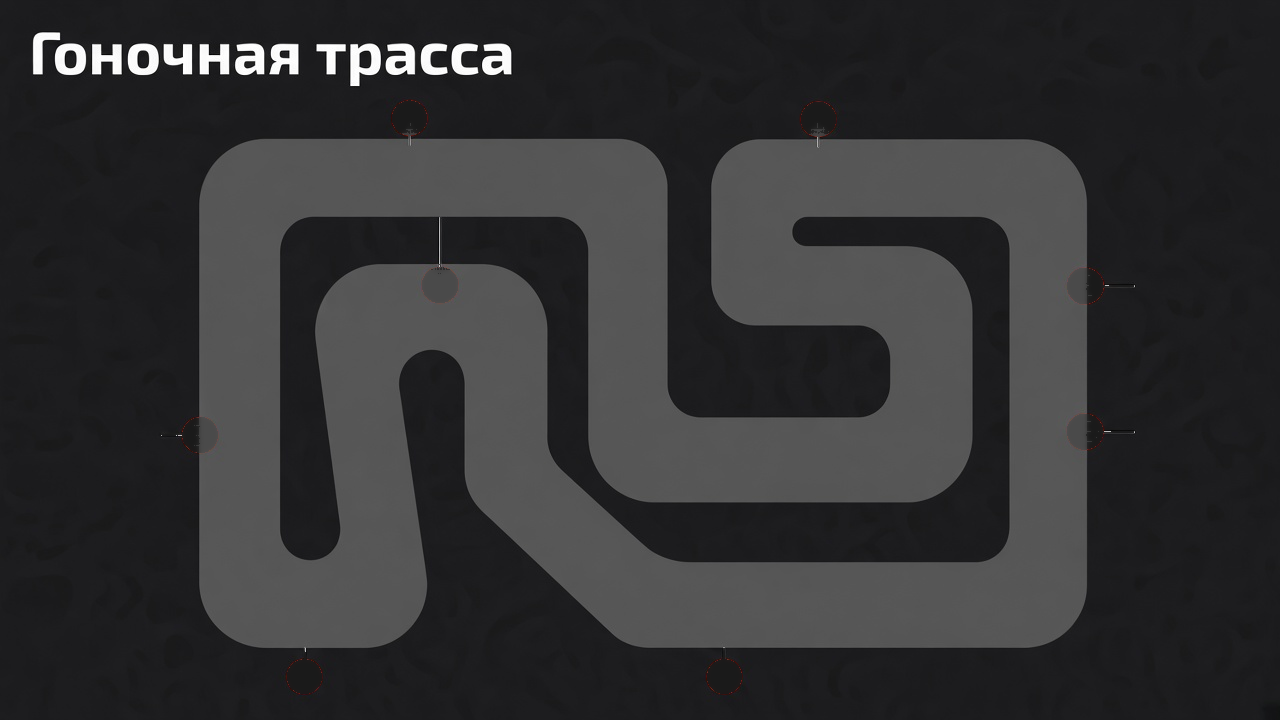
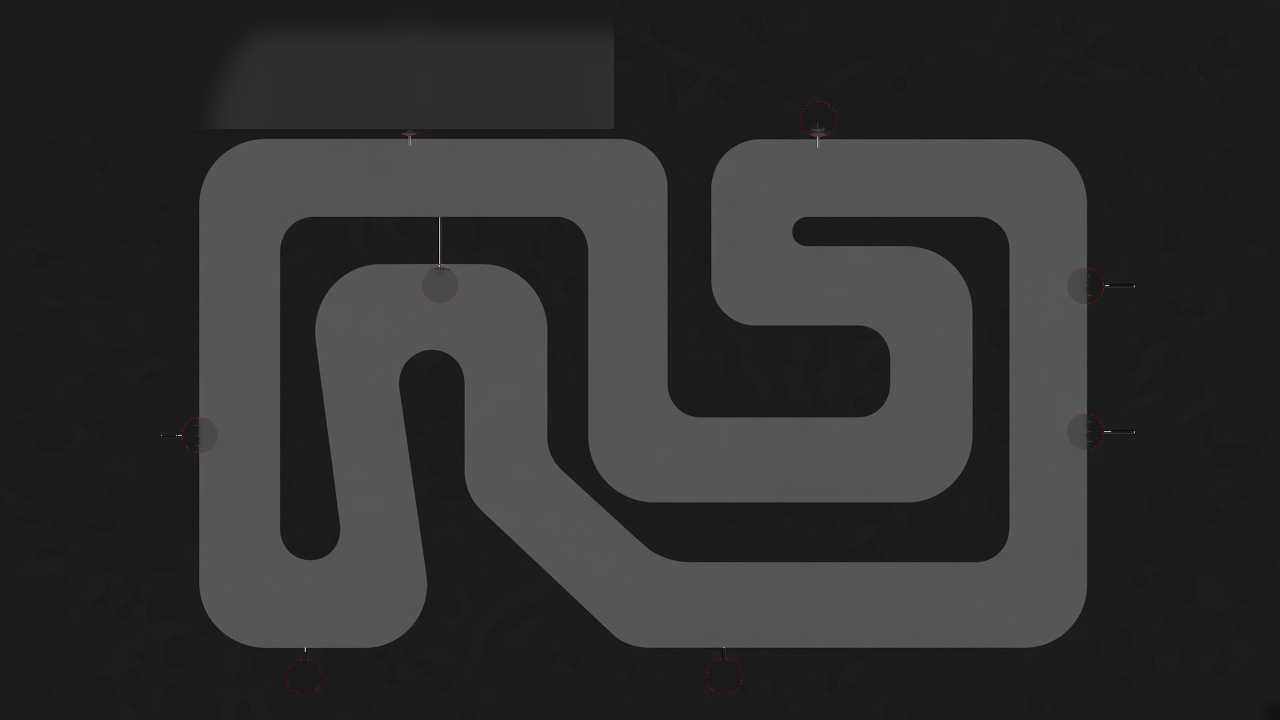
fix(pit-stop): трасса в один экран, без заголовка на арте
Вписываем карту в viewport; фразу «Гоночная трасса» сняли с PNG.

Changed region(s): [[0.0, 0.0306, 0.4062, 0.1222]]

diff --git a/frontend/app/pages/event/pit-stop/index.vue b/frontend/app/pages/event/pit-stop/index.vue
@@ -1,51 +1,53 @@
 <template>
   <div class="ps-hub">
     <div class="ps-hub__stage">
-      <img
-        class="ps-hub__track"
-        src="/events/pit-stop-14/track.png"
-        alt="Гоночная трасса Pit Stop 14"
-        width="1280"
-        height="720"
-        draggable="false"
-      />
+      <div class="ps-hub__map">
+        <img
+          class="ps-hub__track"
+          src="/events/pit-stop-14/track.png"
+          alt=""
+          width="1280"
+          height="720"
+          draggable="false"
+        />
 
-      <template v-for="item in hub" :key="item.id">
-        <NuxtLink
-          v-if="canOpen(item)"
-          :to="`/event/pit-stop/${item.id}`"
-          class="ps-hub__pin"
-          :class="[`is-${item.status}`, { 'is-current': isCurrent(item) }]"
-          :style="pinStyle(item.id)"
-          :title="shortTitle(item.title)"
-          :aria-label="`${shortTitle(item.title)} — ${statusLabel(item.status)}`"
-        >
-          <span class="ps-hub__pin-ring" aria-hidden="true" />
-          <span class="ps-hub__pin-core">{{ item.id }}</span>
-        </NuxtLink>
-        <button
-          v-else
-          type="button"
-          class="ps-hub__pin is-locked"
-          :style="pinStyle(item.id)"
-          disabled
-          :title="item.lockedLabel || 'Закрыто'"
-          :aria-label="`${shortTitle(item.title)} — закрыто`"
-        >
-          <span class="ps-hub__pin-ring" aria-hidden="true" />
-          <span class="ps-hub__pin-core" aria-hidden="true">
-            <svg viewBox="0 0 16 16" width="14" height="14" fill="none">
-              <path
-                d="M4.5 7V5a3.5 3.5 0 1 1 7 0v2"
-                stroke="currentColor"
-                stroke-width="1.6"
-                stroke-linecap="round"
-              />
-              <rect x="3.25" y="7" width="9.5" height="6.75" rx="1.5" stroke="currentColor" stroke-width="1.6" />
-            </svg>
-          </span>
-        </button>
-      </template>
+        <template v-for="item in hub" :key="item.id">
+          <NuxtLink
+            v-if="canOpen(item)"
+            :to="`/event/pit-stop/${item.id}`"
+            class="ps-hub__pin"
+            :class="[`is-${item.status}`, { 'is-current': isCurrent(item) }]"
+            :style="pinStyle(item.id)"
+            :title="shortTitle(item.title)"
+            :aria-label="`${shortTitle(item.title)} — ${statusLabel(item.status)}`"
+          >
+            <span class="ps-hub__pin-ring" aria-hidden="true" />
+            <span class="ps-hub__pin-core">{{ item.id }}</span>
+          </NuxtLink>
+          <button
+            v-else
+            type="button"
+            class="ps-hub__pin is-locked"
+            :style="pinStyle(item.id)"
+            disabled
+            :title="item.lockedLabel || 'Закрыто'"
+            :aria-label="`${shortTitle(item.title)} — закрыто`"
+          >
+            <span class="ps-hub__pin-ring" aria-hidden="true" />
+            <span class="ps-hub__pin-core" aria-hidden="true">
+              <svg viewBox="0 0 16 16" width="14" height="14" fill="none">
+                <path
+                  d="M4.5 7V5a3.5 3.5 0 1 1 7 0v2"
+                  stroke="currentColor"
+                  stroke-width="1.6"
+                  stroke-linecap="round"
+                />
+                <rect x="3.25" y="7" width="9.5" height="6.75" rx="1.5" stroke="currentColor" stroke-width="1.6" />
+              </svg>
+            </span>
+          </button>
+        </template>
+      </div>
     </div>
 
     <aside class="ps-hub__dock">
@@ -190,7 +192,8 @@ onMounted(load);
   --ps-violet: #7451f4;
   position: relative;
   width: 100%;
-  min-height: calc(100dvh - 64px);
+  height: 100%;
+  min-height: 0;
   margin: 0;
   padding: 0;
   background: var(--ps-bg);
@@ -199,20 +202,35 @@ onMounted(load);
   touch-action: manipulation;
   display: flex;
   flex-direction: column;
+  overflow: hidden;
 }
 
 .ps-hub__stage {
-  position: relative;
   flex: 1 1 auto;
-  width: 100%;
   min-height: 0;
+  width: 100%;
+  padding: 8px 12px 4px;
+  display: grid;
+  place-items: center;
+  container-type: size;
+}
+
+.ps-hub__map {
+  position: relative;
+  /* вписать 16:9 в доступный бокс stage без скролла */
+  width: min(100cqw, calc(100cqh * 1280 / 720));
+  height: min(100cqh, calc(100cqw * 720 / 1280));
+  max-width: 100%;
+  max-height: 100%;
   line-height: 0;
 }
 
 .ps-hub__track {
   display: block;
   width: 100%;
-  height: auto;
+  height: 100%;
+  object-fit: contain;
+  object-position: center;
   user-select: none;
   pointer-events: none;
 }
@@ -220,8 +238,8 @@ onMounted(load);
 .ps-hub__pin {
   position: absolute;
   z-index: 2;
-  width: 52px;
-  height: 52px;
+  width: clamp(36px, 5.5cqmin, 52px);
+  height: clamp(36px, 5.5cqmin, 52px);
   margin: 0;
   padding: 0;
   border: 0;
@@ -310,8 +328,8 @@ onMounted(load);
   display: flex;
   flex-wrap: wrap;
   align-items: flex-end;
-  gap: 16px 24px;
-  padding: 14px 20px 20px;
+  gap: 10px 20px;
+  padding: 8px 16px 12px;
   background: linear-gradient(180deg, transparent, rgba(0, 0, 0, 0.55) 28%, #111 100%);
   border-top: 1px solid rgba(255, 255, 255, 0.08);
 }
@@ -331,16 +349,16 @@ onMounted(load);
 }
 
 .ps-hub__title {
-  margin: 0 0 6px;
-  font-size: 1.35rem;
+  margin: 0 0 4px;
+  font-size: 1.15rem;
   font-weight: 800;
   letter-spacing: -0.02em;
 }
 
 .ps-hub__lead {
-  margin: 0 0 8px;
-  font-size: 0.88rem;
-  line-height: 1.4;
+  margin: 0 0 4px;
+  font-size: 0.8rem;
+  line-height: 1.35;
   color: rgba(255, 255, 255, 0.72);
   max-width: 40em;
 }

diff --git a/frontend/app/assets/main.css b/frontend/app/assets/main.css
@@ -726,23 +726,101 @@ a {
   overflow: hidden;
 }
 
-/* Pit Stop: на всю ширину контента, без узкой колонки */
-.shell-main:has(.ps-hub) .content,
+/* Pit Stop: на всю ширину + один экран без скролла */
+.app-viewport:has(.ps-hub) {
+  height: 100dvh;
+  max-height: 100dvh;
+  overflow: hidden;
+}
+
+.app-viewport:has(.ps-hub) > .app-shell {
+  flex: 1 1 0;
+  min-height: 0;
+  height: auto;
+  max-height: 100%;
+  overflow: hidden;
+}
+
+.app-viewport:has(.ps-hub) > .app-site-footer {
+  display: none;
+}
+
+.app-shell:has(.ps-hub) {
+  min-height: 0;
+  height: 100%;
+  max-height: 100%;
+  overflow: hidden;
+  align-items: stretch;
+}
+
+.app-shell:has(.ps-hub) > .shell-main {
+  min-height: 0;
+  max-height: 100%;
+  overflow: hidden;
+}
+
+.shell-main:has(.ps-hub) {
+  grid-template-rows: auto minmax(0, 1fr);
+  min-height: 0;
+  height: 100%;
+  max-height: 100%;
+  overflow: hidden;
+}
+
+.shell-main:has(.ps-hub) .content {
+  padding: 0;
+  background: #1a1a1a;
+  overflow: hidden;
+  display: flex;
+  flex-direction: column;
+  min-height: 0;
+  height: 100%;
+  max-height: 100%;
+}
+
+.shell-main:has(.ps-hub) .content > * {
+  flex: 1 1 auto;
+  min-height: 0;
+  display: flex;
+  flex-direction: column;
+}
+
+.shell-main:has(.ps-hub) .content .page-root {
+  flex: 1 1 auto;
+  min-height: 0;
+  height: 100%;
+  max-height: 100%;
+  gap: 0;
+  max-width: none;
+  width: 100%;
+  display: flex;
+  flex-direction: column;
+  overflow: hidden;
+}
+
+.shell-main:has(.ps-hub) .content .page-root > .ps-hub,
+.shell-main:has(.ps-hub) .content > .ps-hub {
+  flex: 1 1 auto;
+  min-height: 0;
+  height: 100%;
+  max-height: 100%;
+  width: 100%;
+  max-width: none;
+  overflow: hidden;
+}
+
 .shell-main:has(.pit-cp) .content {
   padding: 0;
   background: #1a1a1a;
 }
 
-.shell-main:has(.ps-hub) .content .page-root,
 .shell-main:has(.pit-cp) .content .page-root {
   gap: 0;
   max-width: none;
   width: 100%;
 }
 
-.shell-main:has(.ps-hub) .content .page-root > .ps-hub,
 .shell-main:has(.pit-cp) .content .page-root > .pit-cp,
-.shell-main:has(.ps-hub) .content > .ps-hub,
 .shell-main:has(.pit-cp) .content > .pit-cp {
   width: 100%;
   max-width: none;
